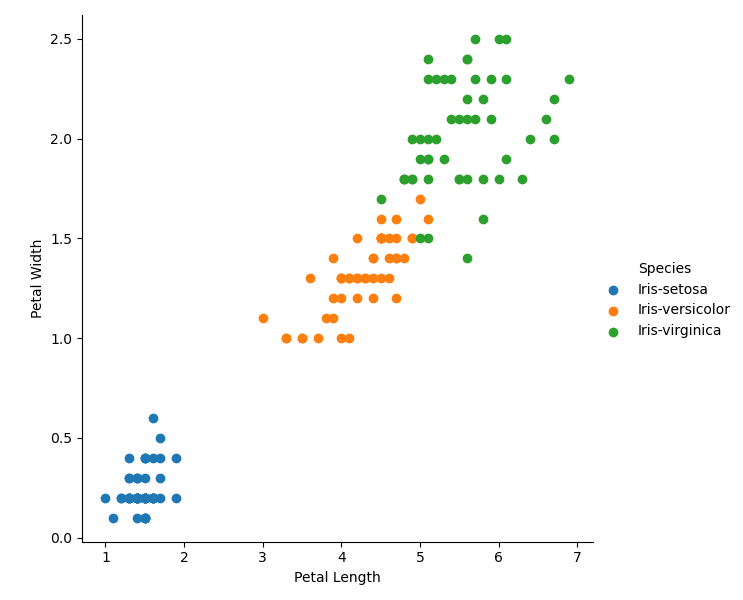
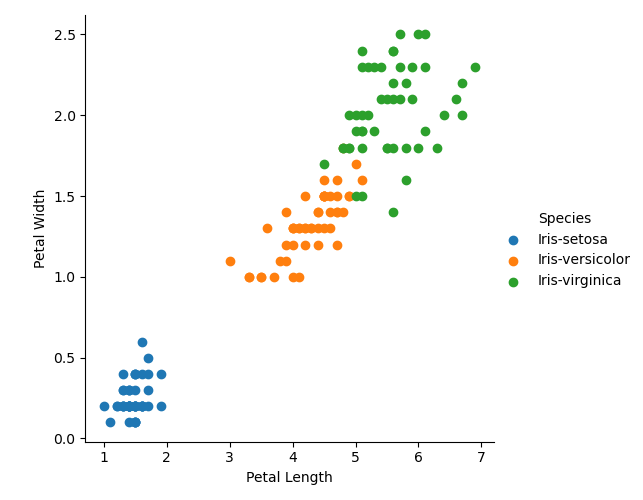
README embed plots and code

diff --git a/analysis.py b/analysis.py
@@ -102,13 +102,13 @@ def histograms():
 #Scatterplots
 def scatterPlots():
     
-    sns.FacetGrid(df,hue="Species", height=6).map(plt.scatter, "Sepal Length", "Sepal Width" ).add_legend()
+    sns.FacetGrid(df,hue="Species", height=5).map(plt.scatter, "Sepal Length", "Sepal Width" ).add_legend()
     plt.savefig("./plots/SLSWscatterPlot.png")
-    sns.FacetGrid(df,hue="Species", height=6).map(plt.scatter, "Petal Length", "Petal Width" ).add_legend()
+    sns.FacetGrid(df,hue="Species", height=5).map(plt.scatter, "Petal Length", "Petal Width" ).add_legend()
     plt.savefig("./plots/PLPWscatterPlot.png")
-    sns.FacetGrid(df,hue="Species", height=6).map(plt.scatter, "Sepal Length", "Petal Length").add_legend()
+    sns.FacetGrid(df,hue="Species", height=5).map(plt.scatter, "Sepal Length", "Petal Length").add_legend()
     plt.savefig("./plots/SLPLscatterPlot.png")
-    sns.FacetGrid(df,hue="Species", height=6).map(plt.scatter, "Sepal Width" , "Petal Width" ).add_legend()
+    sns.FacetGrid(df,hue="Species", height=5).map(plt.scatter, "Sepal Width" , "Petal Width" ).add_legend()
     plt.savefig("./plots/SWPWscatterPlot.png")
 
     sns.pairplot(df,hue="Species",height=3)
@@ -117,7 +117,7 @@ def scatterPlots():
 
 ##########################################################################
 def distPlot():
-    histplot, axes = plt.subplots(2,2, figsize=(10,10), sharex=False)
+    distplot, axes = plt.subplots(2,2, figsize=(10,10), sharex=False)
     sns.histplot( df["Sepal Length"] , kde = True, stat="density", linewidth=1, color="firebrick"  , ax=axes[0, 0])
     sns.histplot( df["Sepal Width" ] , kde = True, stat="density", linewidth=1, color="royalblue"  ,ax=axes[0, 1]) 
     sns.histplot( df["Petal Length"] , kde = True, stat="density", linewidth=1, color="forestgreen", ax=axes[1, 0]) 
@@ -159,9 +159,9 @@ def heatMap():
     plt.show()
 
 
-dataSummary()
+#dataSummary()
 #histograms()
-#scatterPlots()
+scatterPlots()
 #distPlot()
 #boxPlots()
 #violinPlots()

diff --git a/README.md b/README.md
@@ -214,6 +214,20 @@ min            4.90         2.20          4.50         1.40
 max            7.90         3.80          6.90         2.50
 ```
 
+Correlation
+
+```
+Data Correlation
+
+              Sepal Length  Sepal Width  Petal Length  Petal Width
+Sepal Length      1.000000    -0.109369      0.871754     0.817954
+Sepal Width      -0.109369     1.000000     -0.420516    -0.356544
+Petal Length      0.871754    -0.420516      1.000000     0.962757
+Petal Width       0.817954    -0.356544      0.962757     1.000000
+```
+
+![alt text](https://github.com/ShanePAustin/pands-project2021/blob/main/Plots/hMap.png "Heat Map")
+
 ## 4 Data Analysis
 
 ### 4.1 Histograms
@@ -226,6 +240,26 @@ max            7.90         3.80          6.90         2.50
 
 ![alt text](https://github.com/ShanePAustin/pands-project2021/blob/main/Plots/PWHist.png "Petal Width Histogram")
 
+```python
+ax = plt.axes()
+plt.hist(df["Sepal Length"], color = "firebrick")
+plt.title("Sepal Length Histogram")
+plt.xlabel("Sepal Length")
+plt.grid(linestyle = "dashed", )
+ax.set_facecolor("lightgrey")
+```
+
+![alt text](https://github.com/ShanePAustin/pands-project2021/blob/main/Plots/distPlot.png "Dist Plot")
+
+```python
+distplot, axes = plt.subplots(2,2, figsize=(10,10), sharex=False)
+sns.histplot( df["Sepal Length"] , kde = True, stat="density", linewidth=1, color="firebrick"  , ax=axes[0, 0])
+sns.histplot( df["Sepal Width" ] , kde = True, stat="density", linewidth=1, color="royalblue"  ,ax=axes[0, 1]) 
+sns.histplot( df["Petal Length"] , kde = True, stat="density", linewidth=1, color="forestgreen", ax=axes[1, 0]) 
+sns.histplot( df["Petal Width" ] , kde = True, stat="density", linewidth=1, color="violet"     , ax=axes[1, 1])
+```
+
+
 ### 4.2 Scatterplots
 
 ![alt text](https://github.com/ShanePAustin/pands-project2021/blob/main/Plots/SLSWscatterPlot.png "SLSW Scatter Plot")
@@ -236,9 +270,40 @@ max            7.90         3.80          6.90         2.50
 
 ![alt text](https://github.com/ShanePAustin/pands-project2021/blob/main/Plots/SWPWscatterPlot.png "SWPW Scatter Plot")
 
+```python
+sns.FacetGrid(df,hue="Species", height=5).map(plt.scatter, "Sepal Length", "Sepal Width" ).add_legend()
+```
+
+![alt text](https://github.com/ShanePAustin/pands-project2021/blob/main/Plots/scatterPlot.png "Pair Plot")
+
+```python
+sns.pairplot(df,hue="Species",height=3)
+```
+
 ### 4.3 Boxplots
 
+![alt text](https://github.com/ShanePAustin/pands-project2021/blob/main/Plots/boxPlots.png.png "Box Plot")
+
+```python
+    boxPlot, axes = plt.subplots(1,4, figsize=(16,8))
+    sns.boxplot(x="Species", y="Sepal Length", hue="Species", data=df, palette="bright", ax=axes[0], dodge=False)    
+    sns.boxplot(x="Species", y="Sepal Width" , hue="Species", data=df, palette="bright", ax=axes[1], dodge=False)
+    sns.boxplot(x="Species", y="Petal Length", hue="Species", data=df, palette="bright", ax=axes[2], dodge=False)
+    sns.boxplot(x="Species", y="Petal Width" , hue="Species", data=df, palette="bright", ax=axes[3], dodge=False)
+```
+
+
 ### 4.4 Violinplots
+
+![alt text](https://github.com/ShanePAustin/pands-project2021/blob/main/Plots/violinPlots.png "Violin Plot")
+
+```python
+    violinplot, axes = plt.subplots(2,2, figsize=(10,10), sharex=False)
+    sns.violinplot(x="Species", y="Sepal Length", hue="Species", data=df, palette="bright", ax=axes[0,0], dodge=False)
+    sns.violinplot(x="Species", y="Sepal Width" , hue="Species", data=df, palette="bright", ax=axes[0,1], dodge=False)
+    sns.violinplot(x="Species", y="Petal Length", hue="Species", data=df, palette="bright", ax=axes[1,0], dodge=False)
+    sns.violinplot(x="Species", y="Petal Width" , hue="Species", data=df, palette="bright", ax=axes[1,1], dodge=False)
+```
 
 ## References
 
